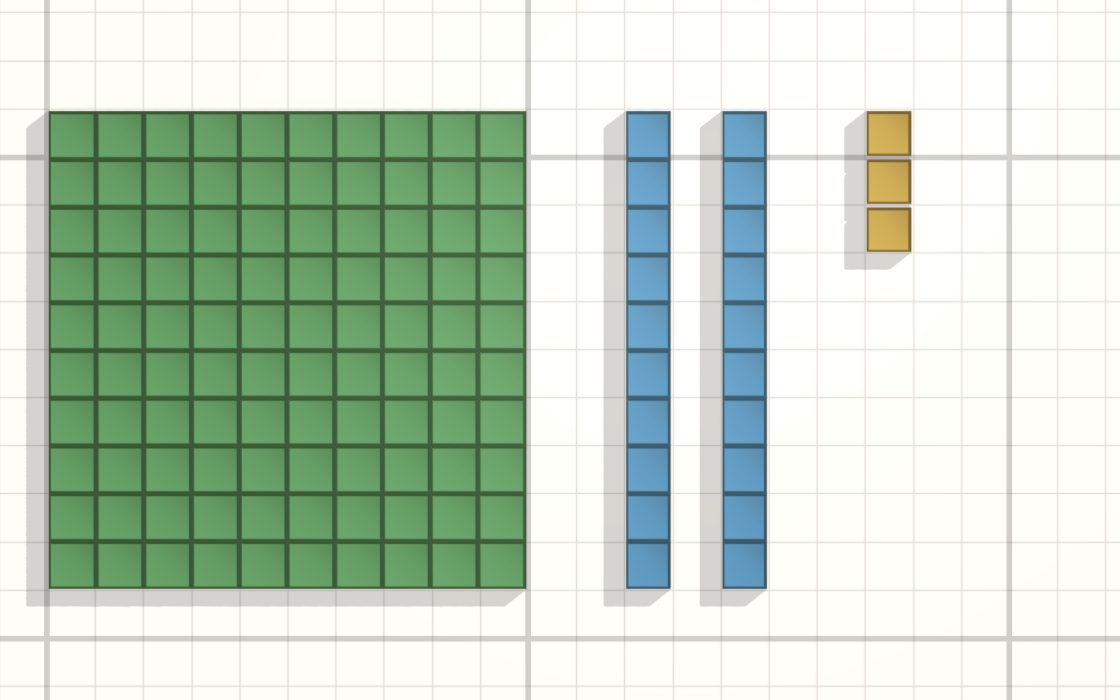
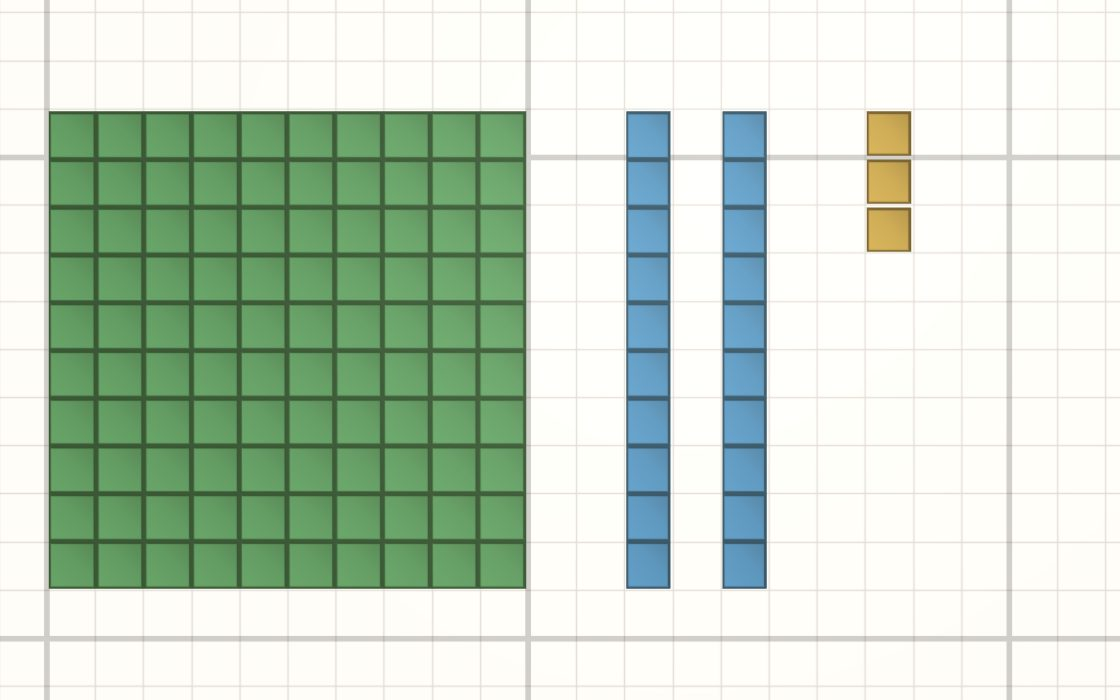
Manipulatives: no grey shade - the paper takes no shadow in the 2D view, the balance scale casts none in either view, and its pastels are lit from within so the pink and purple never go dusky grey

diff --git a/prep-math/activity/base-blocks/js/scale.js b/prep-math/activity/base-blocks/js/scale.js
@@ -328,6 +328,9 @@ function mat(scene, hex, shade = 1) {
   const m = new BJS.StandardMaterial("sc-" + k, scene);
   m.diffuseColor = BJS.Color3.FromHexString(norm(hex)).scale(shade);
   m.specularColor = new BJS.Color3(0.06, 0.06, 0.06);
+  /* LIT FROM WITHIN, so a pastel stays a pastel: the light pink and light purple of the bucket balance
+     went a dusky grey on their shaded sides ("there is this awkward grey shade. remove it") */
+  m.emissiveColor = BJS.Color3.FromHexString(norm(hex)).scale(shade * 0.22);
   matCache.set(k, m);
   return m;
 }
@@ -369,9 +372,9 @@ export function buildScale(ctx, thing) {
   /* THE CLASSROOM BUCKET BALANCE (the user's picture): a flared stand and a beam in LIGHT PINK, U-shaped
      hangers and round bowls in LIGHT PURPLE ("use light pink for the arm and maybe light purple for the
      basket") */
-  const wood = "#f6bfd6";            // the arm, the stand, the foot
+  const wood = "#f0a3c4";            // the arm, the stand, the foot: light pink, deep enough to read lit from above
   const ink = "#c46b93";             // the hub, the hooks: a deeper pink
-  const tray = "#d9c8f5";            // the bowls
+  const tray = "#cbb4f0";            // the bowls: light purple
   const handle = "#bda6ec";          // the hangers, a shade deeper than the bowls
 
   const tag = (m) => { m.metadata = { itemId: id }; m.parent = root; return m; };
@@ -546,13 +549,9 @@ export function placeScale(parts, thing) {
   }
   if (parts.flat !== flat) {
     parts.flat = flat;
-    /* a front view lying on the paper would throw a 3D shadow across it: none in the flat view */
-    if (parts.shadows) {
-      for (const m of parts.root.getChildMeshes()) {
-        if (flat) parts.shadows.removeShadowCaster(m);
-        else if (!/Hanger|Wall|Rim|Sign/.test(m.name)) parts.shadows.addShadowCaster(m);
-      }
-    }
+    /* the scale casts no shadow in either view: a grey slab across the paper (2D) or a big grey shape on
+       the floor (3D) — "there is this awkward grey shade. remove it" */
+    if (parts.shadows) for (const m of parts.root.getChildMeshes()) parts.shadows.removeShadowCaster(m);
     /* what is in a bowl is laid out on the bowl's floor: turned to face the camera in the front view */
     for (const side of ["left", "right"]) {
       const load = parts.pans[side].load;
@@ -630,7 +629,7 @@ function fillPan(ctx, thing, parts, side, base) {
     mesh.position.set(at.cx, at.cy, at.cz);
     mesh.metadata = { pan: { thingId: thing.id, side, index: at.index } };
     mesh.receiveShadows = true;
-    if (!store.flat) ctx.shadows.addShadowCaster(mesh);   // no 3D shadow under the front view
+    /* no shadow from what is in a bowl: the scale casts none */
     pan.pieces.push(mesh);
   }
 }

diff --git a/prep-math/activity/base-blocks/js/scene.js b/prep-math/activity/base-blocks/js/scene.js
@@ -192,6 +192,9 @@ export function setFlatView(ctx, on, { instant = false } = {}) {
   const cam = ctx.camera;
   if (ctx.flat === on) return;
   ctx.flat = on;
+  /* NO SHADOW ON THE PAPER IN 2D ("there is this awkward grey shade. remove it"): looking straight down,
+     the sun's shadow is only a grey slab beside every piece. The solid view keeps it, where it says depth. */
+  if (ctx.mat) ctx.mat.receiveShadows = !on;
   /* straight into the flat view, no swing: how the canvas opens */
   if (on && instant) {
     cam.beta = 0.0001; cam.alpha = -Math.PI / 2;
